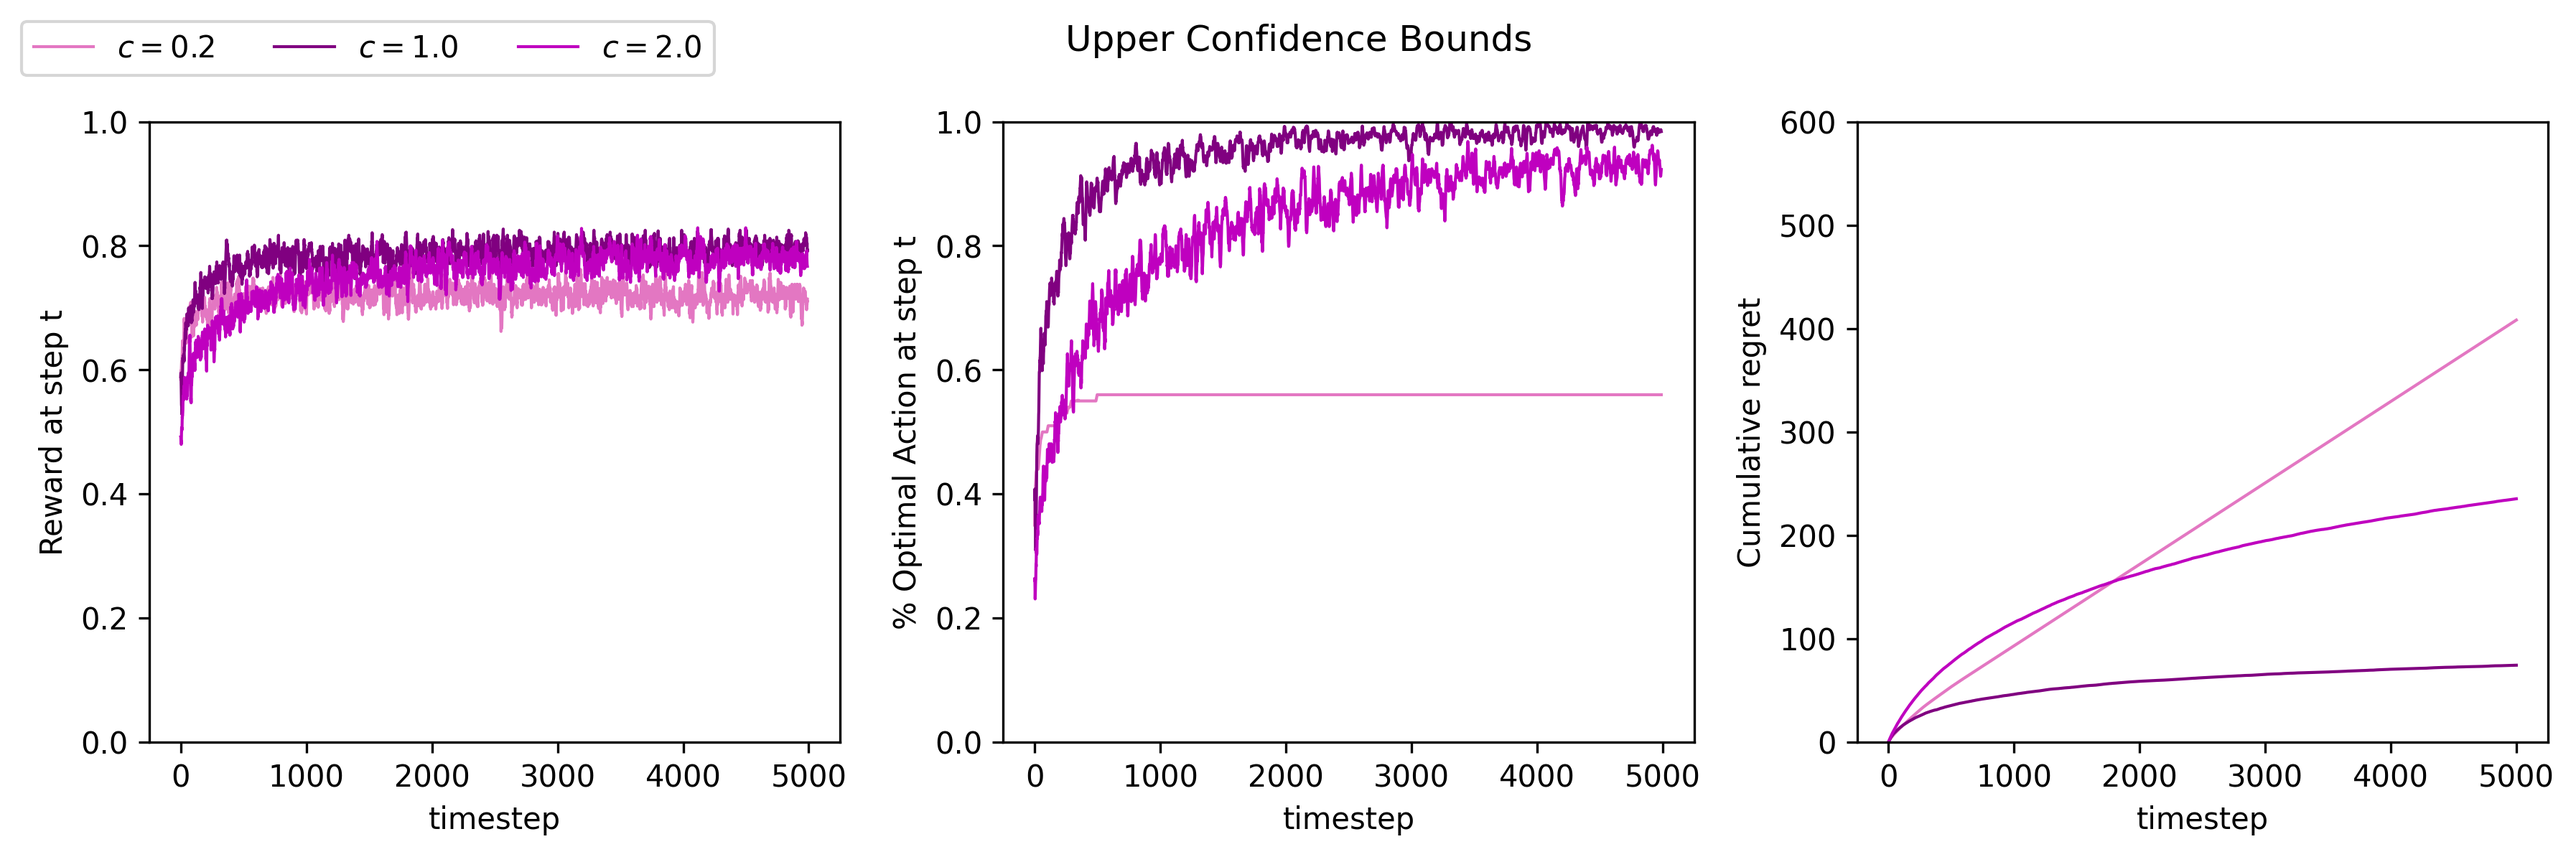
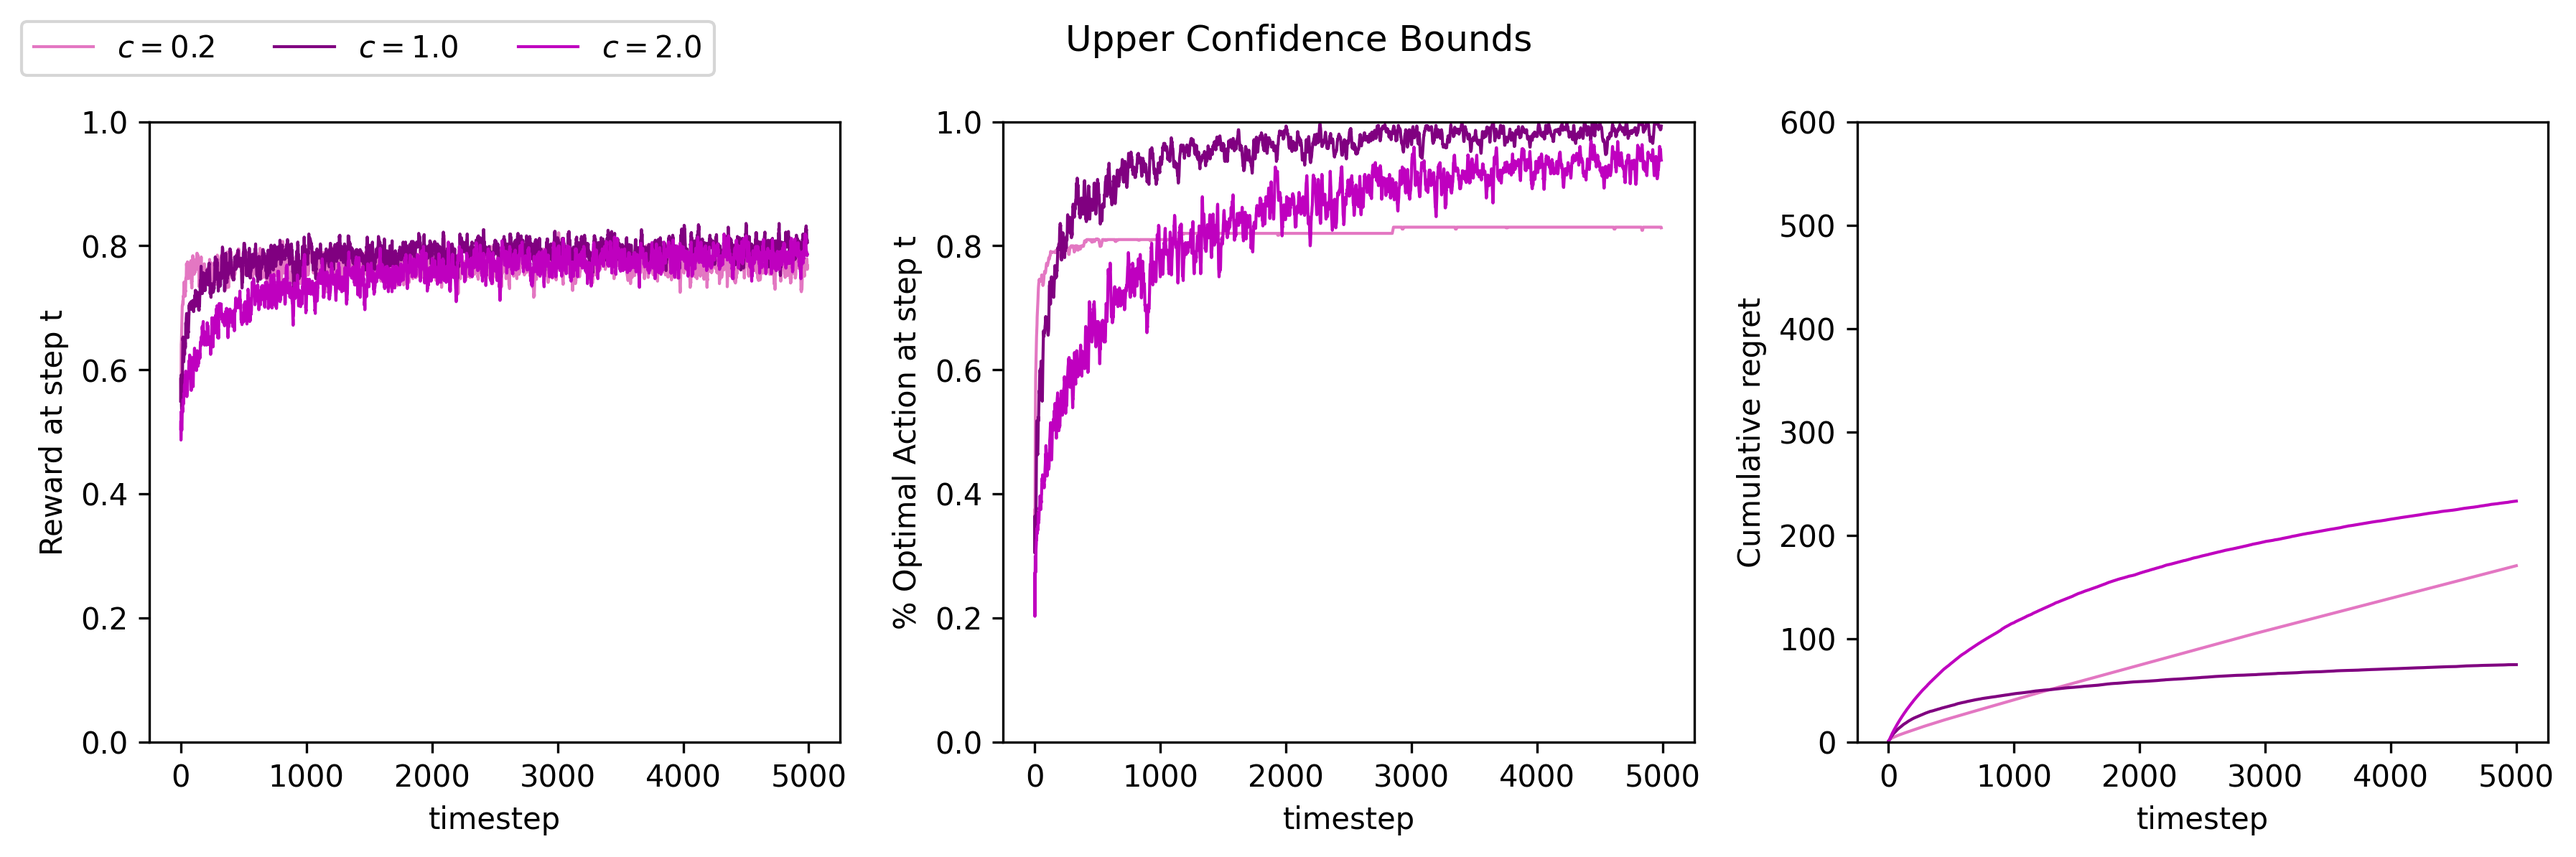
updated datatypes
Former-commit-id: 2ec5abf41a5eafcea63e08bc77c8047bcb8046c5

diff --git a/HW6/HW6_SkeletonCode/bandit.py b/HW6/HW6_SkeletonCode/bandit.py
@@ -46,8 +46,8 @@ class BernoulliMAB(MultiArmedBandit):
 def epsilon_greedy(mab, T, epsilon):
     # Initialization
     k = len(mab)
-    Q = np.zeros(k)
-    N = np.zeros(k)
+    Q = np.zeros(k, dtype=float)
+    N = np.zeros(k, dtype=int)
     
     rewards = []  # reward at each time step
     optimals = [] # whether the optimal arm was selected at each time step
@@ -80,7 +80,7 @@ def optimistic_initial_values(mab, T, Q1):
     # Initialization
     k = len(mab)
     Q = np.full(k, Q1, dtype=float) # figuring out that this needed float was such a pain
-    N = np.ones(k)
+    N = np.ones(k, dtype=int)
 
     rewards = []  # reward at each time step
     optimals = [] # whether the optimal arm was selected at each time step
@@ -108,19 +108,21 @@ def optimistic_initial_values(mab, T, Q1):
 def upper_confidence_bounds(mab, T, c):
     # Initialization
     k = len(mab)
-    Q = np.zeros(k)
-    N = np.zeros(k)
+    Q = np.zeros(k, dtype=float)
+    N = np.zeros(k, dtype=int)
 
     rewards = []  # reward at each time step
     optimals = [] # whether the optimal arm was selected at each time step
     regrets = []  # cumulative regret at each time step
 
     for t in range(1,T):
-        # This doesn't work at t=0 because of the ln, so I changed the time steps to start from 1
-        # I also use a hack to make sure we don't get division by 0
         # Action selection: greedy wrt UCB scores
-        U = Q + c * np.sqrt(np.log(t)/np.maximum(N, 1))
-        a = random_argmax(U)
+        if 0 in N:
+            # Equivalent to setting the exploration bonus to infinity
+            a = np.argmin(N)
+        else:
+            U = Q + c * np.sqrt(np.log(t)/N)
+            a = random_argmax(U)
 
         # Pull arm a and observe reward
         r = mab.pull(a)
@@ -258,6 +260,6 @@ if __name__ == '__main__':
     runs = 100
 
     # Run the algorithms
-    # part_a(mab, T, runs)
+    part_a(mab, T, runs)
     part_b(mab, T, runs)
-    # part_c(mab, T, runs)
+    part_c(mab, T, runs)
